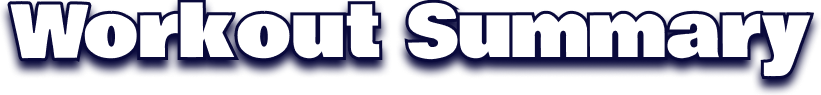
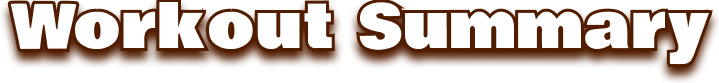
unified color and style

diff --git a/frontend/src/components/ReportPage/ReportPage.module.css b/frontend/src/components/ReportPage/ReportPage.module.css
@@ -5,7 +5,7 @@
   height: 100%;
   position: absolute;
   overflow-y: scroll;
-  font-family: "Comfortaa", cursive;
+  font-family: "Comfortaa";
 }
 
 .title {
@@ -35,13 +35,13 @@
 }
 
 .icons {
-  width: 70px;
-  height: 70px;
-  margin: auto 20px;
+  width: 65px;
+  height: 65px;
+  margin: 8.5px 0 8.5px 20px;
 }
 
 .text {
-  padding: 30px;
+  padding: 30px 30px 30px 20px;
   font-size: 1.5rem;
 }
 
@@ -55,11 +55,10 @@
 .reportBtn {
   position: absolute;
   padding: 2vh 2vw;
-  font-size: 1rem;
   border-radius: 10px;
   transition: all 0.2s ease-in-out;
   border: none;
-  font-size: 1.5rem;
+  font-size: 1.3rem;
   color: white;
   box-shadow: rgba(0, 0, 0, 0.25) 0px 14px 28px,
     rgba(0, 0, 0, 0.22) 0px 10px 10px;
@@ -75,22 +74,26 @@
 #resumeBtn {
   bottom: 10%;
   right: 30%;
-  background-color: var(--darkblue);
+  font-family: 'Comfortaa';
+  background-color: var(--brown);
 }
 
 #backBtn {
   bottom: 10%;
   right: 10%;
-
-  background-color: var(--brightblue);
+  font-family: 'Comfortaa';
+  color: var(--brown);
+  background-color: var(--yellow);
 }
 
 #resumeBtn:hover {
-  background-color: rgb(48, 53, 79);
+  background-color: var(--darkbrown);
+  cursor: pointer;
 }
 
 #backBtn:hover {
-  background-color: rgb(37, 118, 169);
+  cursor: pointer;
+  background-color: var(--darkyellow);
 }
 
 #problemList {

diff --git a/frontend/src/components/UI/SelectBodyPart/MenuCard/MenuCard.css b/frontend/src/components/UI/SelectBodyPart/MenuCard/MenuCard.css
@@ -3,19 +3,19 @@
 .menuCard {
   width: 250px;
   height: 70px;
-  background-color: var(--red);
+  background-color: var(--yellow);
   border-radius: 15px 15px 0px 0px;
   display: flex;
   justify-content: center;
   align-items: center;
-  color: white;
+  color: var(--brown);
   font-family: "Comfortaa";
   font-size: 20px;
   margin-top: -80px;
 }
 
 .menuCardWrapper {
-  background-color: var(--darkred);
+  background-color: var(--darkyellow);
   height: 80px;
   border-radius: 15px;
 }
@@ -24,7 +24,7 @@
   width: 250px;
   padding: 0;
   border: 0;
-  background-color: white;
+  background-color: var(--brown);
   border-radius: 15px;
   cursor: pointer;
   margin: 0 0 16px 0;
@@ -37,9 +37,9 @@
 
 /* Can be changed later for React */
 .button.open .menuCard {
-  background-color: #00bbff;
+  background-color: var(--lightyellow);
 }
 
 .button.open .menuCardWrapper {
-  background-color: #02aeec;
+  background-color: var(--middleyellow);
 }

diff --git a/frontend/src/index.css b/frontend/src/index.css
@@ -9,7 +9,11 @@
   --red: #ff5858;
   --grey: #b5b5b5;
   --yellow: #FFC700;
+  --darkyellow: #ECB905;
+  --lightyellow: #FFE175;
+  --middleyellow: #FCD85B;
   --brown: #511D00;
+  --darkbrown: #321200;
   --darkred: rgb(198, 28, 28);
 }
 
